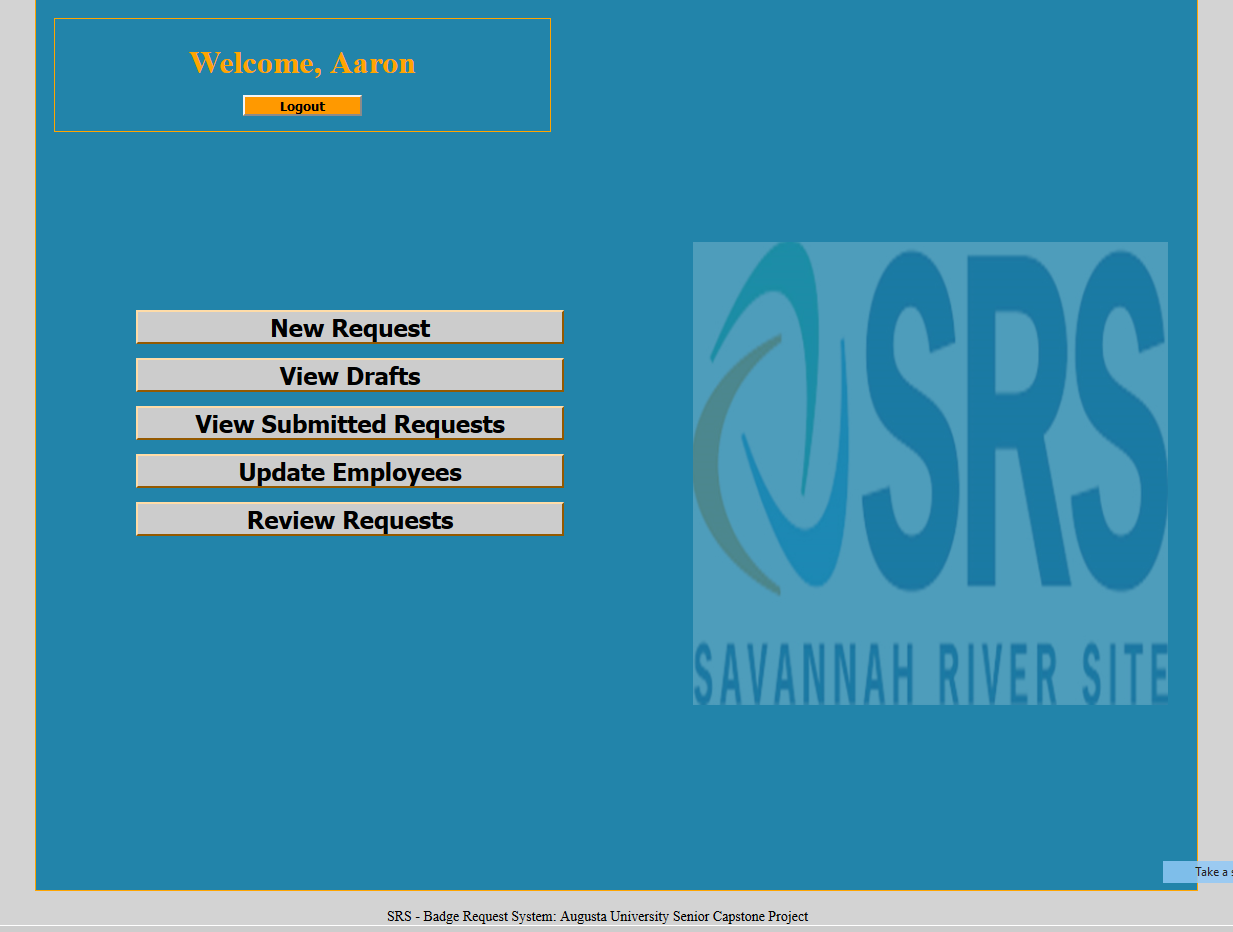
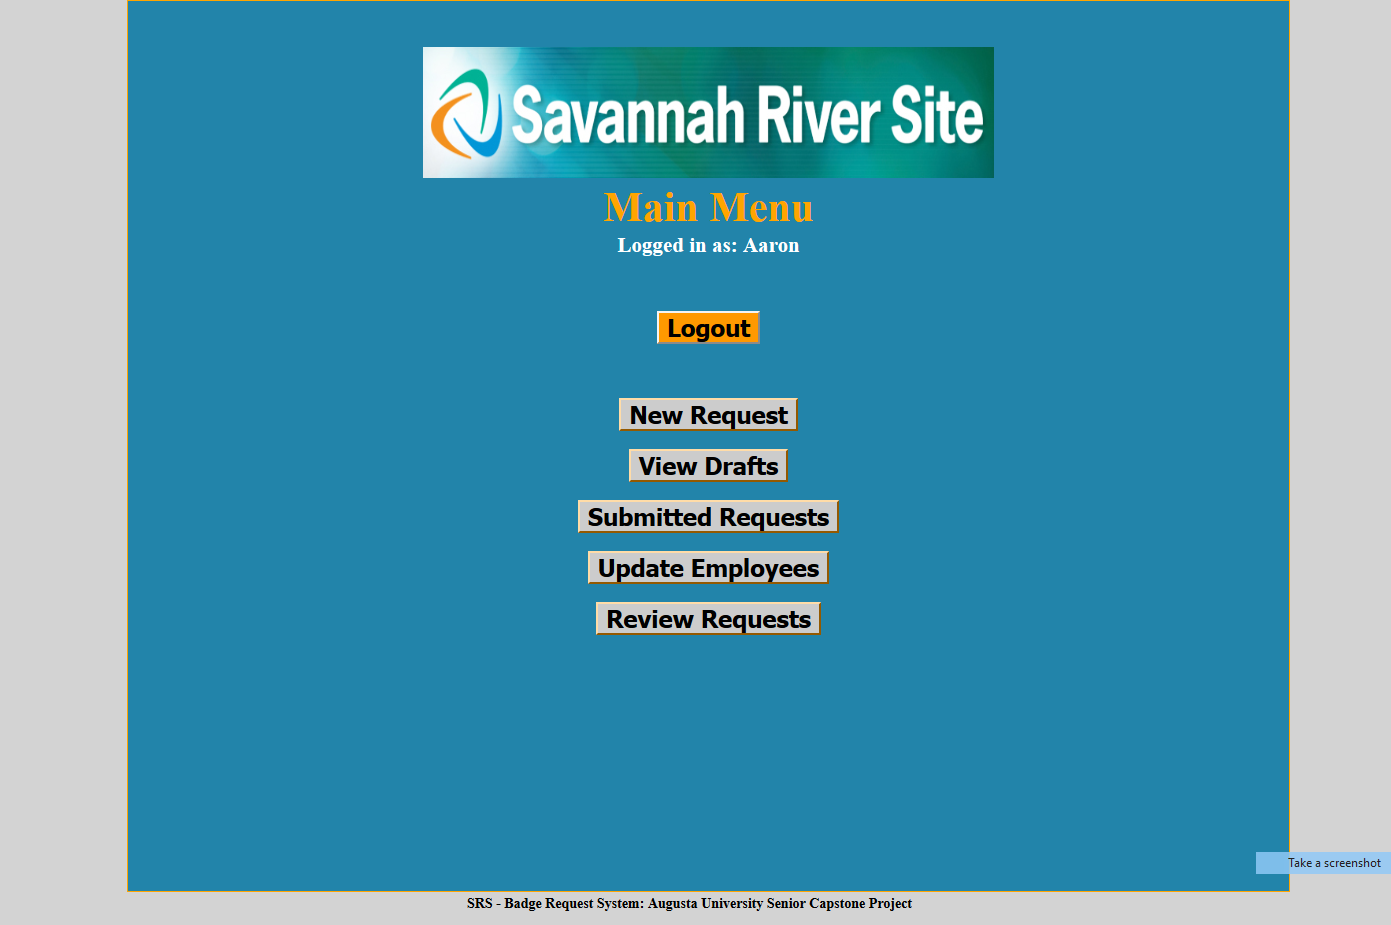
Disabled jQuery for testing purposes. MainMenuForm has been redesigned (comments/concerns, please contact me). Added new screenshot

diff --git a/JS.js b/JS.js
@@ -5,34 +5,34 @@ https://www.htmlgoodies.com/beyond/javascript/top-10-jquery-tips-and-tricks.html
 ****************************************************************/
 
 $(document).ready(function LoginFadeIn() {
-    $('#testPic').hide().fadeIn(2000);
-    $('#RequestLabel').hide().fadeIn(2000);
-    $('#userLabel').hide().fadeIn(2000);
-    $('#userBox').hide().fadeIn(2000);
-    $('#passLabel').hide().fadeIn(2000);
-    $('#passBox').hide().fadeIn(2000);
-    $('#loginButton').hide().fadeIn(2000);
+    //$('#testPic').hide().fadeIn(2000);
+    //$('#RequestLabel').hide().fadeIn(2000);
+    //$('#userLabel').hide().fadeIn(2000);
+    //$('#userBox').hide().fadeIn(2000);
+    //$('#passLabel').hide().fadeIn(2000);
+    //$('#passBox').hide().fadeIn(2000);
+    //$('#loginButton').hide().fadeIn(2000);
     
 });
 $(function MainMenuFadeIn() {
-    $('#Image1').hide().fadeIn(2000);
-    $('#mainpageWelcome').hide().fadeIn(2000);
-    $('#ButtonNewRequest').hide().delay(200).fadeIn(2000);
-    $('#ButtonViewSavedRequests').hide().delay(400).fadeIn(2000);
-    $('#ButtonViewSubmittedRequests').hide().delay(600).fadeIn(2000);
-    $('#ButtonUpdateEmployees').hide().delay(800).fadeIn(2000);
-    $('#ButtonReviewRequests').hide().delay(1000).fadeIn(2000);
+    //$('#Image1').hide().fadeIn(2000);
+    //$('#mainpageWelcome').hide().fadeIn(2000);
+    //$('#ButtonNewRequest').hide().delay(200).fadeIn(2000);
+    //$('#ButtonViewSavedRequests').hide().delay(400).fadeIn(2000);
+    //$('#ButtonViewSubmittedRequests').hide().delay(600).fadeIn(2000);
+    //$('#ButtonUpdateEmployees').hide().delay(800).fadeIn(2000);
+    //$('#ButtonReviewRequests').hide().delay(1000).fadeIn(2000);
     //The delays kind of give a cool effect like each button loads one right after another
 });
 $(function EditRequestFadeIn() {
-    $('#editRequestFormMainData').hide().fadeIn(2000);
-    $('#editRequestFormCheckBoxData').hide().fadeIn(2000);
-    $('#editRequestFormTopRightText').hide().fadeIn(2000);
-    $('#editRequestFormBottomButtons').hide().fadeIn(2000);
+    //$('#editRequestFormMainData').hide().fadeIn(2000);
+    //$('#editRequestFormCheckBoxData').hide().fadeIn(2000);
+    //$('#editRequestFormTopRightText').hide().fadeIn(2000);
+    //$('#editRequestFormBottomButtons').hide().fadeIn(2000);
 });
 
 $(function HRFormFadeIn() {
-    $('#listboxFormPanelText').hide().fadeIn(2000);
-    $('#listboxFormPanelButtons').hide().fadeIn(2000);
-    $('#listboxFormPanel').hide().fadeIn(2000);
+    //$('#listboxFormPanelText').hide().fadeIn(2000);
+    //$('#listboxFormPanelButtons').hide().fadeIn(2000);
+    //$('#listboxFormPanel').hide().fadeIn(2000);
 });

diff --git a/MainMenuForm.aspx.cs b/MainMenuForm.aspx.cs
@@ -18,11 +18,11 @@ public partial class MainMenuForm : System.Web.UI.Page
 
         ClientScript.RegisterStartupScript(this.GetType(), "script", "MainMenuFadeIn();", true); //fade effects script (see JS.js file)
 
-        if (Request.Browser.IsMobileDevice == true)
-            Image1.Visible = false; //SRS logo on main page bugs out on mobile, lets remove it for mobile only.
+        //if (Request.Browser.IsMobileDevice == true)
+        //    Image1.Visible = false; //SRS logo on main page bugs out on mobile, lets remove it for mobile only.
         HttpCookie aCookie = Request.Cookies["userInfo"];
         if (!Label2.Text.Contains(aCookie["userName"]))
-            Label2.Text = "Welcome, " + aCookie["userName"];
+            Label2.Text = Label2.Text + aCookie["userName"];
         if (aCookie["isManager"] == "True")
             ButtonReviewRequests.Visible = true;
         if (aCookie["isHR"] == "True")
